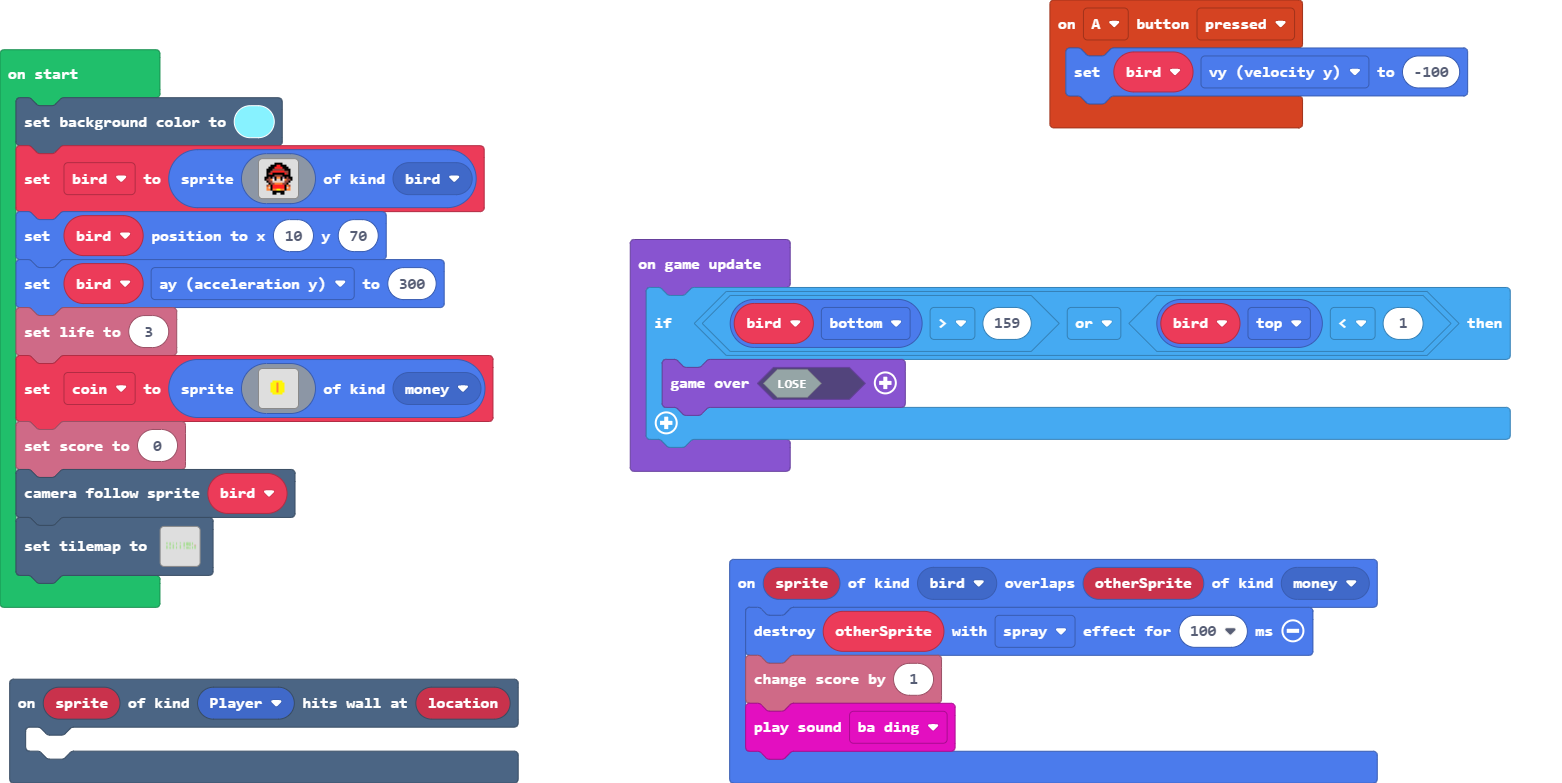
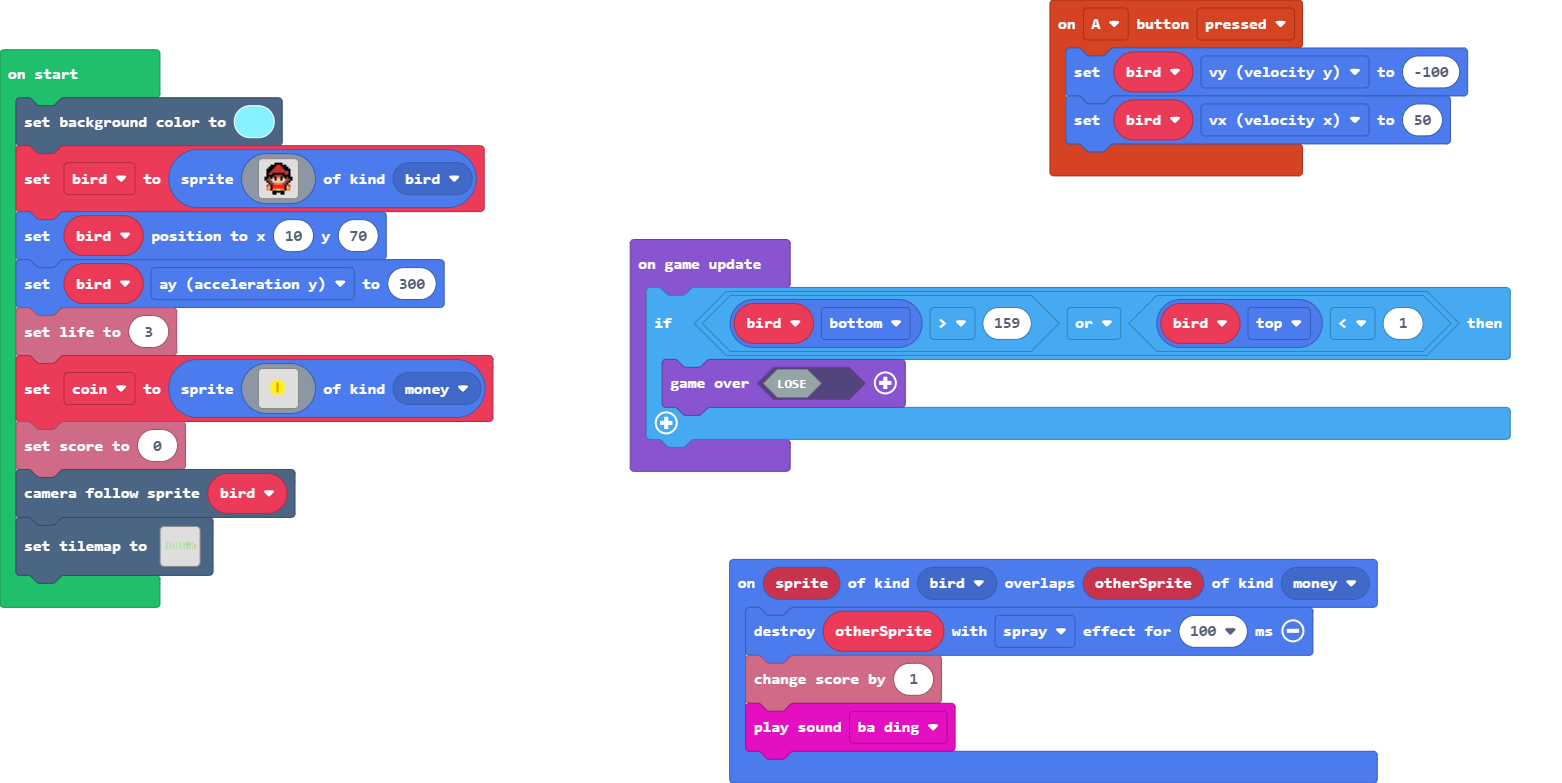
Update main.blocks, main.ts

Changed region(s): [[0.0, 0.8582, 0.338, 1.0], [0.6453, 0.1226, 0.9526, 0.2452]]

diff --git a/main.ts b/main.ts
@@ -4,11 +4,9 @@ namespace SpriteKind {
     export const ground = SpriteKind.create()
     export const bird = SpriteKind.create()
 }
-scene.onHitWall(SpriteKind.Player, function (sprite, location) {
-	
-})
 controller.A.onEvent(ControllerButtonEvent.Pressed, function () {
     bird.vy = -100
+    bird.vx = 50
 })
 sprites.onOverlap(SpriteKind.bird, SpriteKind.money, function (sprite, otherSprite) {
     otherSprite.destroy(effects.spray, 100)
